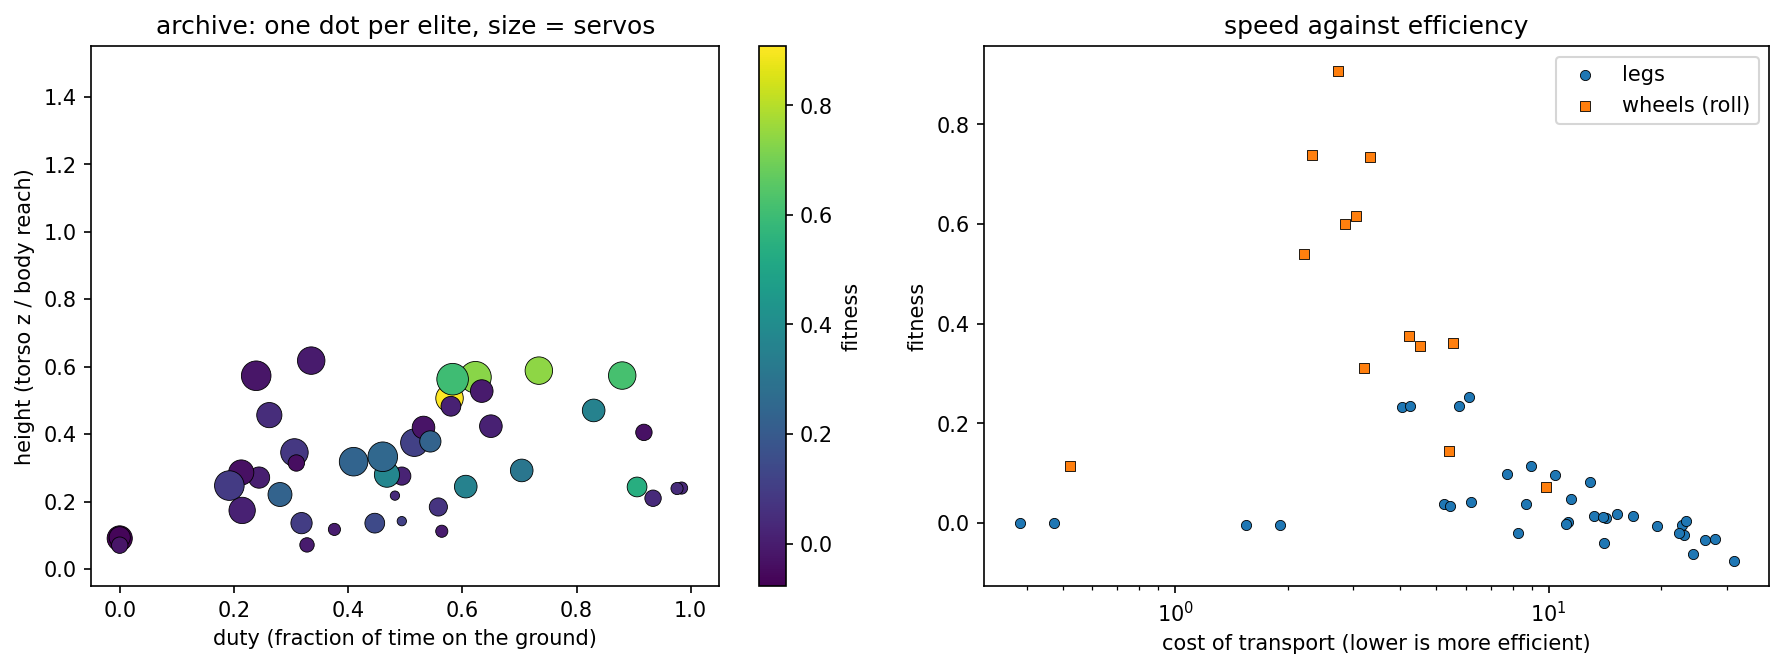
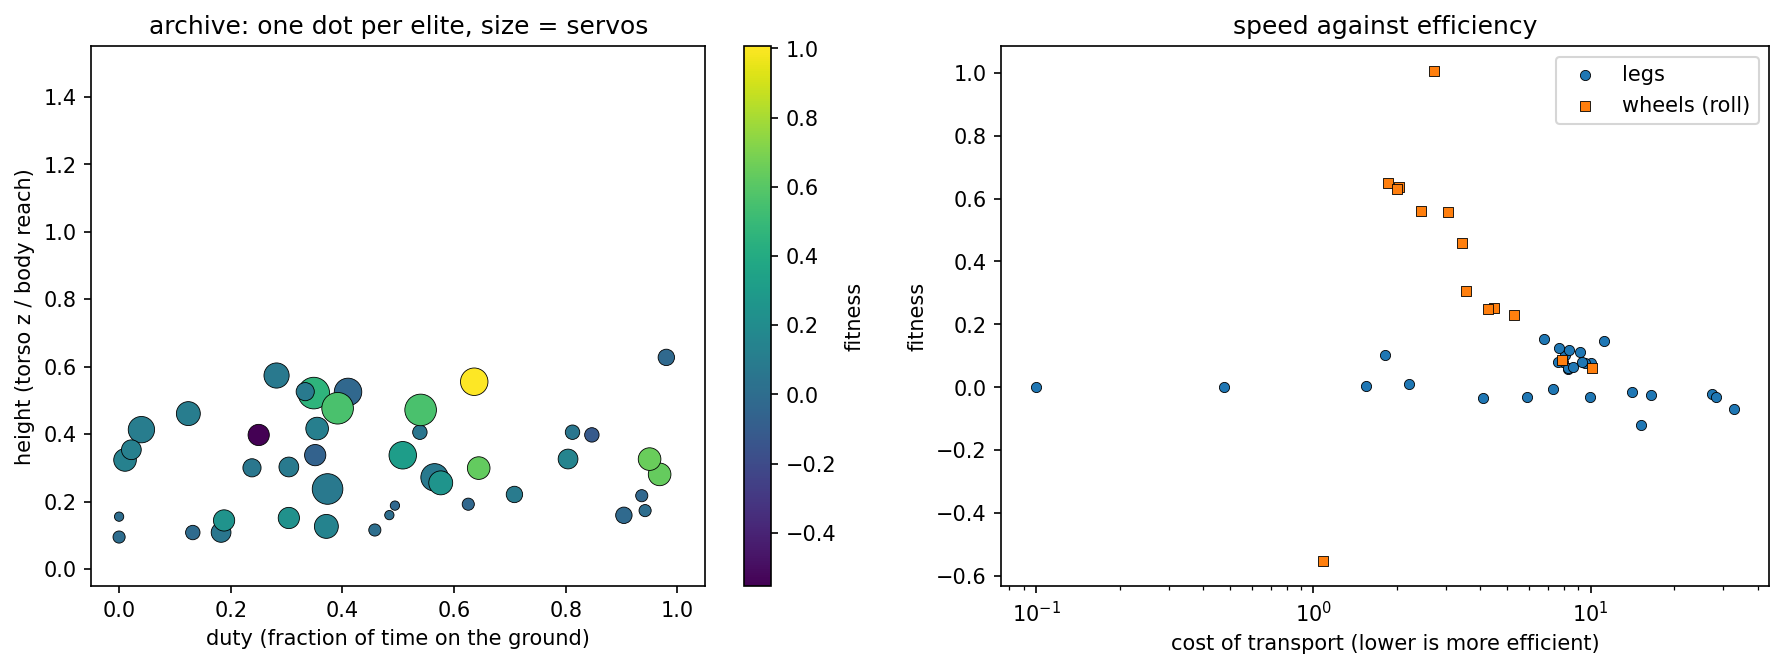
Free-form results: comparison with the catalogue body, GIF at the top of the README

diff --git a/README.md b/README.md
@@ -6,6 +6,8 @@
 Quality-diversity evolution of robot bodies and locomotion controllers, built
 from real parts so the result can be printed and assembled.
 
+![An evolved legged robot walking](docs/img/gait.gif)
+
 Every robot is a tree of real modules (Karl Sims and Revolve2 style): a core
 (torso plate, ESP32, LiPo) with servo joints, passive links, TPU springs, tails,
 skids, spikes, caster wheels, wheels and feet hanging from its slots, driven by
@@ -410,45 +412,52 @@ fitness = 0.7 * mean(scores) + 0.3 * min(scores)
 ## Results
 
 A short run on a 4-core laptop (`--terrains terrain --batches 5 --workers 3`,
-about 20,000 episodes in 2 h 20 min) filled 51 of the ~500 cells:
+about 22,000 episodes in 2 h 20 min) filled 46 of the ~500 cells:
 
 | Gait | Types | Best fitness |
 |------|-------|--------------|
-| `roll` | 13 | 0.91 |
-| `trot` | 17 | 0.25 |
-| `walk` | 7 | 0.23 |
-| `belly` | 10 | 0.01 |
-| `crawl` | 4 | 0.04 |
+| `roll` | 14 | 1.01 |
+| `trot` | 12 | 0.15 |
+| `crawl` | 7 | 0.15 |
+| `walk` | 3 | 0.08 |
+| `belly` | 10 | 0.12 |
 
-Servo counts go from 1 to 16 and the bodies are often asymmetric. 21 types move
-forward (fitness above 0.05), 8 of them with legs carrying most of the ground
-contact. The best of those, `14servos-low-trot`, keeps its distance on
-randomised physics in `validate.py` (PASS) and exports as 14 servos and 40
-printed parts. Wheels win on speed by a factor of about 3.6 and on efficiency
-too: the most efficient roller has a cost of transport of 0.5, the most
-efficient walker 4.1. The cost-of-transport axis keeps walkers that are slow
-but cheap in the archive next to fast rollers (right panel of the map below).
+28 types move forward (fitness above 0.05), 15 of them with legs carrying most
+of the ground contact. 8 of the 43 buildable elites use a TPU spring, 2 a
+spike, 1 a skid and 1 a caster; no tail survived. The most efficient legged
+robot has a cost of transport of 1.8, slightly better than the most efficient
+roller (1.9).
 
-How the versions compare, each trained on the same terrains for 6 batches:
+The free-form body against the fixed catalogue, same terrains, same 6 batches:
 
-| | Leg pairs | Tree bodies | Tree bodies + cost of transport (current) |
-|---|---|---|---|
-| Archive | body shape grid | ~300 cells, 3 descriptors | ~500 cells, 4 descriptors |
-| Robot types | 20 | 50 | 51 |
-| Types that move forward | 14 | 25 | 21 |
-| Unbuildable elites | 5 | 1 | 3 |
-| Servo counts | 4 to 22 | 1 to 16 | 1 to 16 |
-| Best rolling robot | 1.27 | 0.95 | 0.91 |
-| Best legged robot | 0.40 | 0.39 | 0.25 |
+| | Catalogue (links of 60 to 120 mm, fixed elbow) | Free form |
+|---|---|---|
+| Robot types | 51 | 46 |
+| Types that move forward | 21 | 28 |
+| ... of them legged | 8 | 15 |
+| Unbuildable elites | 3 | 3 |
+| Best rolling robot | 0.91 | 1.01 |
+| Best legged robot | 0.25 | 0.15 |
+| Best cost of transport, rolling | 0.5 | 1.9 |
+| Best cost of transport, legged | 4.1 | 1.8 |
 
-Tree bodies brought two and a half times as many robot types. The fourth
-descriptor spreads the same number of evaluations over more cells, so in a
-short run each cell gets fewer improvements and the best legged robot is
-slower; longer runs should close that gap.
+Free form found fewer cells but far more robots that actually move, nearly
+twice as many legged ones, and legged gaits more than twice as efficient.
+The fastest robots are still wheeled. Link lengths stayed between 60 and
+124 mm, close to the catalogue the initial bodies start from: six batches
+are too few for the continuous genes to drift far, so longer runs are the
+next step.
+
+Earlier versions, same terrains and batches:
+
+| | Leg pairs | Tree bodies | Tree + cost of transport | Free form (current) |
+|---|---|---|---|---|
+| Robot types | 20 | 50 | 51 | 46 |
+| Types that move forward | 14 | 25 | 21 | 28 |
+| Best rolling robot | 1.27 | 0.95 | 0.91 | 1.01 |
+| Best legged robot | 0.40 | 0.39 | 0.25 | 0.15 |
 
 ![Evolved body plans](docs/img/robots.png)
-
-![Best wheel-less gait](docs/img/gait.gif)
 
 ![MAP-Elites archive](docs/img/archive_map.png)
 
@@ -469,8 +478,9 @@ list, not in any single robot.
 
 ## Known limitations
 
-- Wheels still lead: the best rolling robot covers about 2.4 times the
-  distance of the best legged one, and the top of the archive is mostly `roll`.
+- Wheels still lead on speed: the best rolling robot covers about 6 times the
+  distance of the best legged one in a short run, and the top of the archive
+  is mostly `roll`. Legged gaits match wheels on efficiency.
 - The firmware is half done: `firmware/core/` runs the controller math in portable C++ and a test proves it matches the Python controller tick by tick (`tests/test_firmware_parity.py`). The ESP32 layer (servo bus, load reading, calibration) waits for real hardware.
 - Randomised training (`--variants`) is CPU only.
 - The only feedback is the servo load. The controller never sees the world, so
@@ -480,7 +490,8 @@ list, not in any single robot.
   or whose links bend beyond 25 MPa under the servo stall torque is not
   buildable and scores `UNSTABLE_SCORE` without being simulated (common among
   random trees).
-- The free-form body has not had a long run yet. Spring stiffness comes from a
+- Results so far come from short runs (6 batches); the continuous genes need
+  longer runs to drift away from the starting sizes. Spring stiffness comes from a
   TPU modulus that is not verified, and the printability stress check is a
   cantilever estimate, not a finite-element analysis.
 
